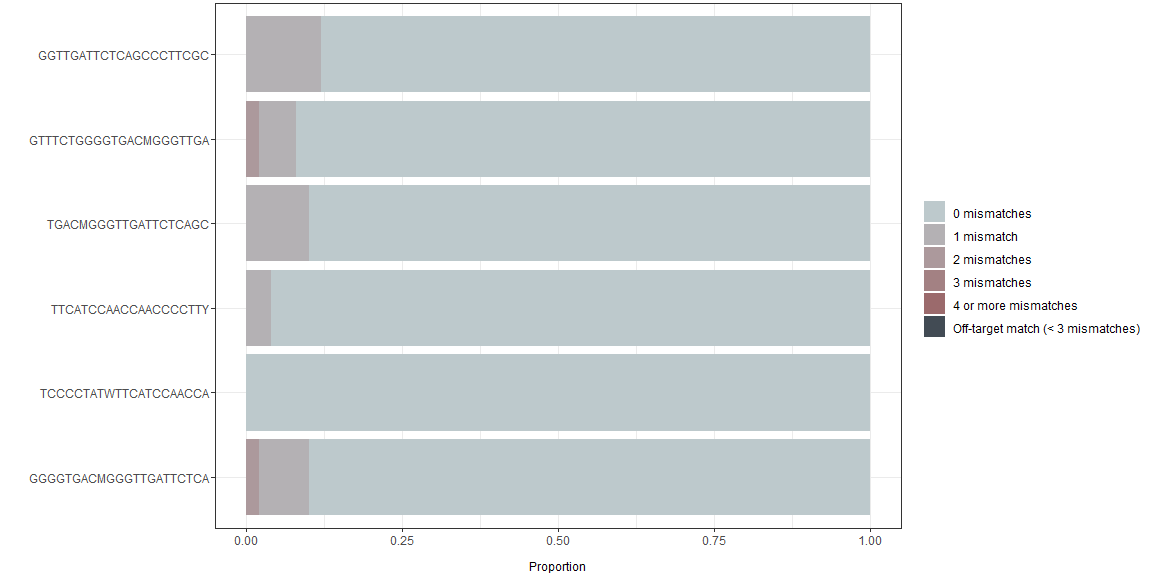
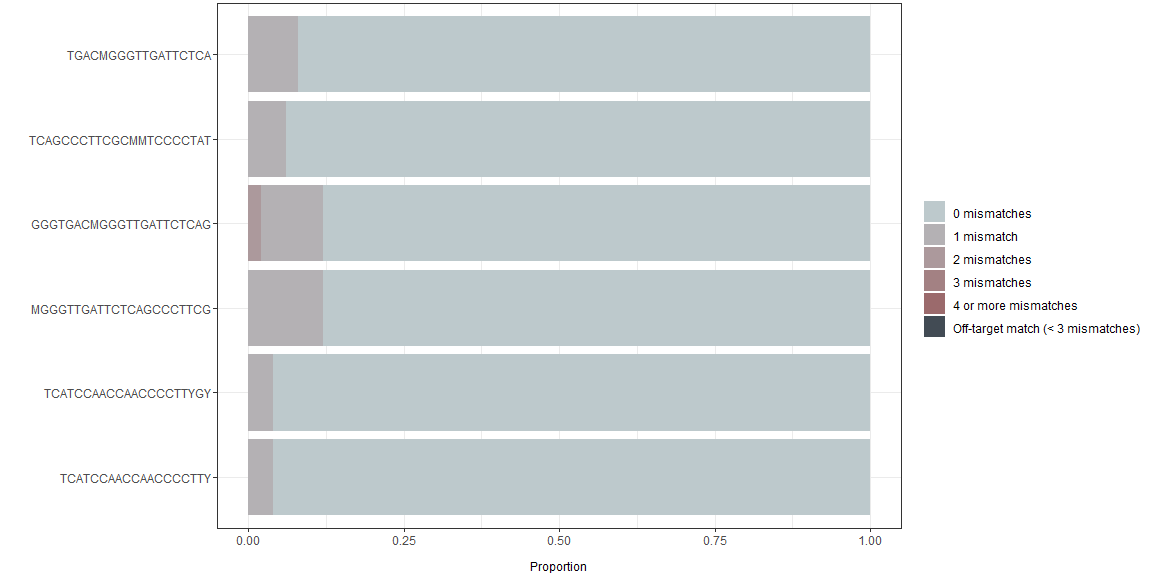
New readme

diff --git a/README.md b/README.md
@@ -33,7 +33,7 @@ library(rprimer)
 
 ## Overview
 
-The package contains four main functions:
+The package contains five main functions:
 
 -   `consensusProfile()`
 -   `designOligos()`
@@ -171,12 +171,12 @@ Results:
 
 | iupacSequence          | perfectMatch | idPerfectMatch | oneMismatch | idOneMismatch | twoMismatches | idTwoMismatches | threeMismatches | idThreeMismatches | fourOrMoreMismatches | idFourOrMoreMismatches | offTargetMatch | idOffTargetMatch |
 |:-----------------------|-------------:|:---------------|------------:|:--------------|--------------:|:----------------|----------------:|:------------------|---------------------:|:-----------------------|---------------:|:-----------------|
-| GGTTGATTCTCAGCCCTTCGC  |         0.88 | AB073912….     |        0.12 | AB481228….    |          0.00 |                 |               0 |                   |                    0 |                        |              0 |                  |
-| GTTTCTGGGGTGACMGGGTTGA |         0.92 | AB073912….     |        0.06 | BD378055….    |          0.02 | JQ953665.1      |               0 |                   |                    0 |                        |              0 |                  |
-| TGACMGGGTTGATTCTCAGC   |         0.90 | AB073912….     |        0.10 | AB481228….    |          0.00 |                 |               0 |                   |                    0 |                        |              0 |                  |
-| TTCATCCAACCAACCCCTTY   |         0.96 | AB073912….     |        0.04 | MF444040….    |          0.00 |                 |               0 |                   |                    0 |                        |              0 |                  |
-| TCCCCTATWTTCATCCAACCA  |         1.00 | AB073912….     |        0.00 |               |          0.00 |                 |               0 |                   |                    0 |                        |              0 |                  |
-| GGGGTGACMGGGTTGATTCTCA |         0.90 | AB073912….     |        0.08 | BD378055….    |          0.02 | JQ953665.1      |               0 |                   |                    0 |                        |              0 |                  |
+| TGACMGGGTTGATTCTCA     |         0.92 | AB073912….     |        0.08 | AB481228….    |          0.00 |                 |               0 |                   |                    0 |                        |              0 |                  |
+| TCAGCCCTTCGCMMTCCCCTAT |         0.94 | AB073912….     |        0.06 | AB481228….    |          0.00 |                 |               0 |                   |                    0 |                        |              0 |                  |
+| GGGTGACMGGGTTGATTCTCAG |         0.88 | AB073912….     |        0.10 | BD378055….    |          0.02 | JQ953665.1      |               0 |                   |                    0 |                        |              0 |                  |
+| MGGGTTGATTCTCAGCCCTTCG |         0.88 | AB073912….     |        0.12 | AB481228….    |          0.00 |                 |               0 |                   |                    0 |                        |              0 |                  |
+| TCATCCAACCAACCCCTTYGY  |         0.96 | AB073912….     |        0.04 | MF444040….    |          0.00 |                 |               0 |                   |                    0 |                        |              0 |                  |
+| TCATCCAACCAACCCCTTY    |         0.96 | AB073912….     |        0.04 | MF444040….    |          0.00 |                 |               0 |                   |                    0 |                        |              0 |                  |
 
 The match table can be visualized using `plotData()`:
 
